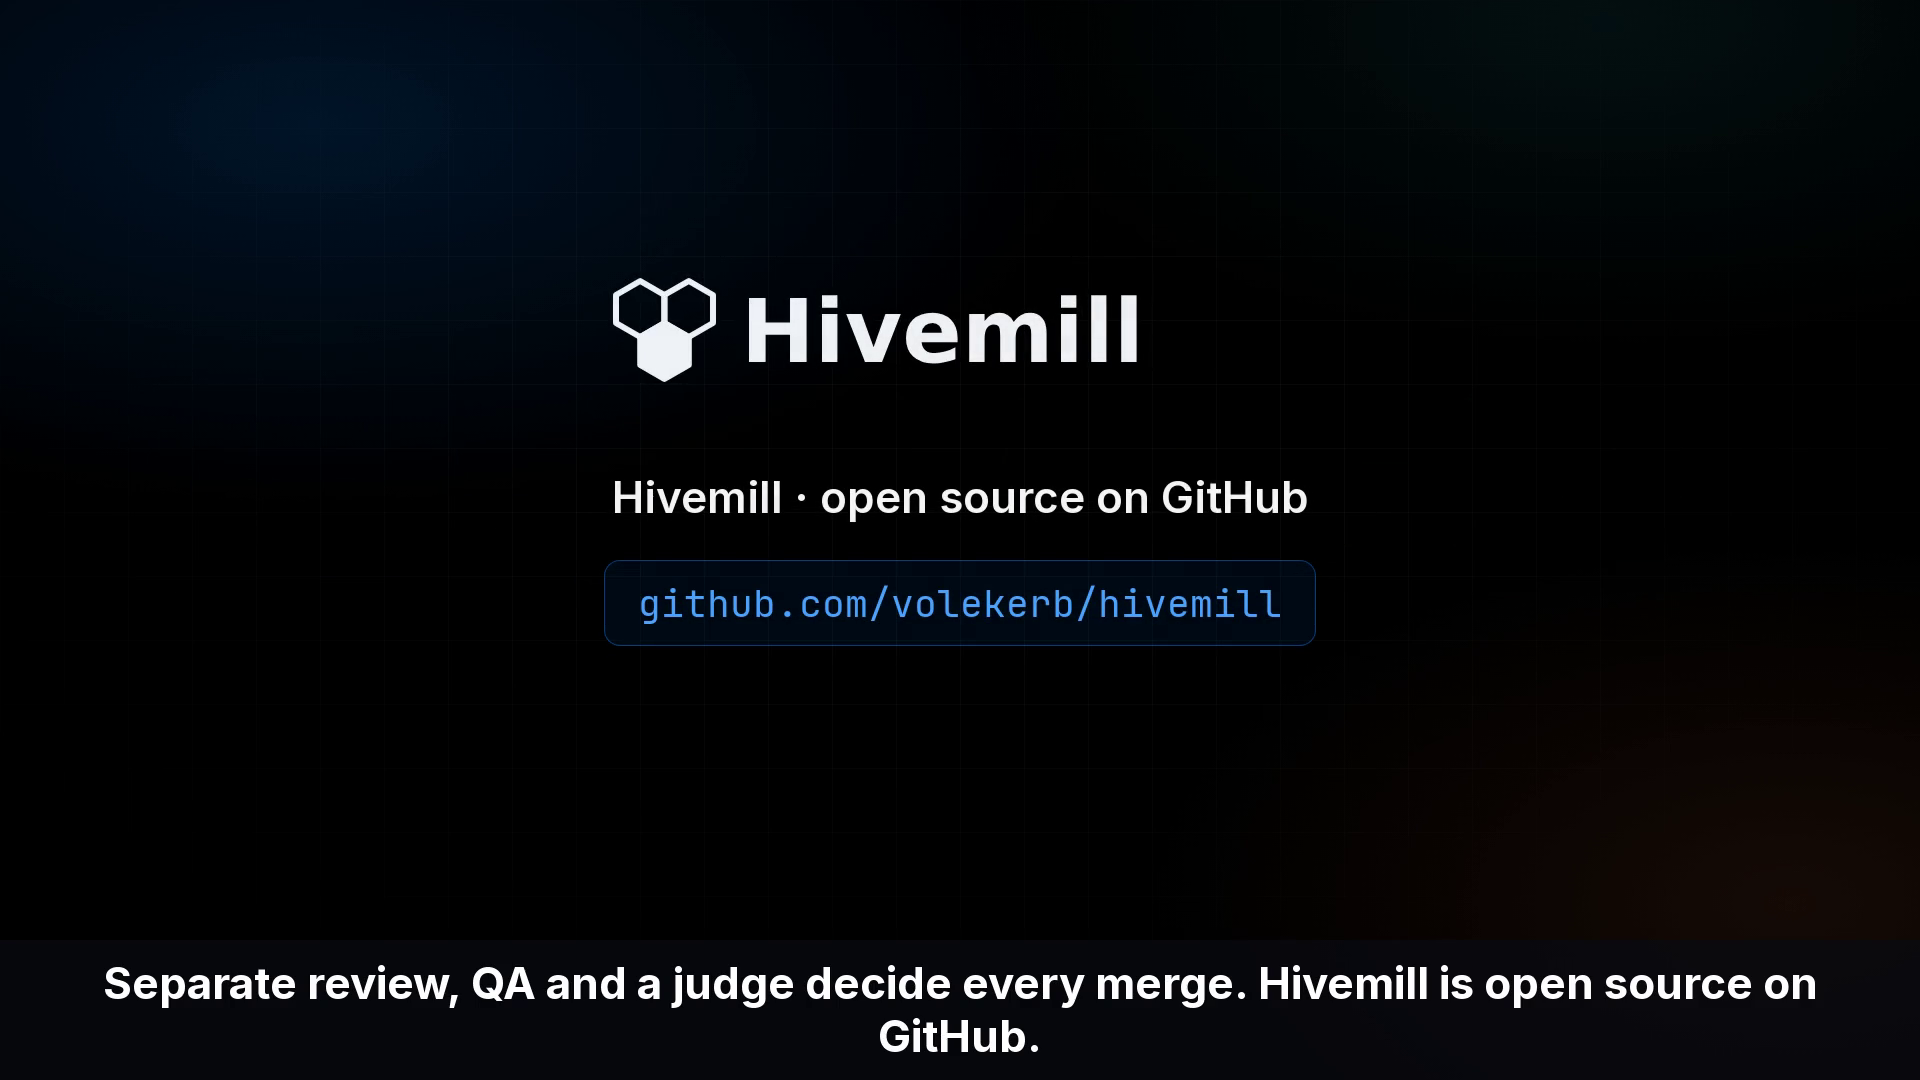
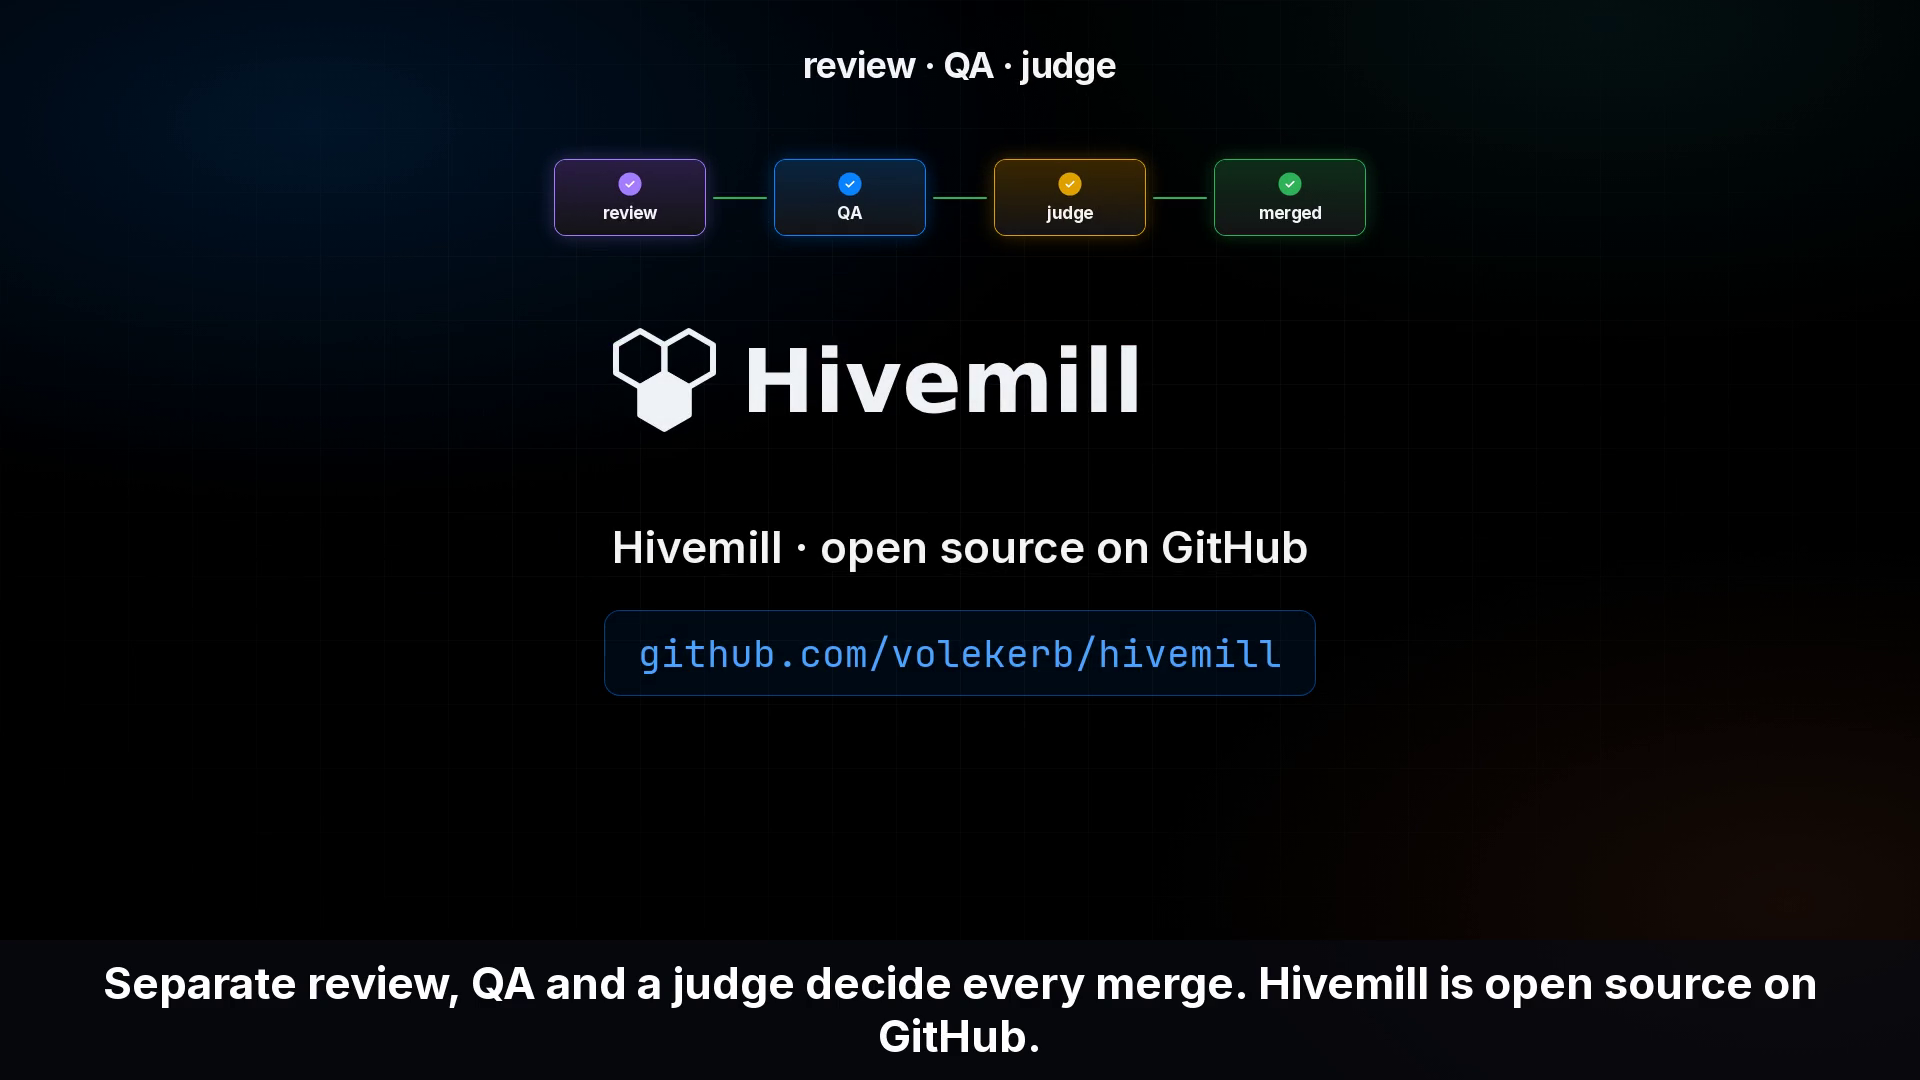
T-1502: film close card readable from 55 s; web-ui chips without overlap
Close: the merge gate lights in ~1 s, then shrinks above the wordmark and
stays; the end card is final from local 1.0 s (film 55 s) to 60 s.
Web-ui: highlight rings drawn inside the chip rectangles; the agents panel
shows two whole-row crops of one table in sequence (top with the Claude
chips, then Cursor HQ) instead of a cut fragment, no task ids on screen.
Stills re-extracted from the render (close 57 s, web-ui 16 s).

Changed region(s): [[0.2812, 0.1222, 0.7188, 0.3972], [0.3125, 0.4278, 0.6875, 0.6417], [0.4062, 0.0306, 0.5938, 0.0917]]

diff --git a/docs/film/scenes/web-ui.html b/docs/film/scenes/web-ui.html
@@ -10,7 +10,13 @@
   .shot { position: absolute; left: 0; top: 0; overflow: hidden; border-radius: 16px; background: rgb(0,0,0);
     box-shadow: 0 0 0 1px rgb(58,58,60), 0 40px 120px rgba(0,0,0,0.75); }
   .shot img { position: absolute; left: 0; top: 0; transform-origin: 0 0; }
-  .ring { position: absolute; }
+  /* Rings sit inside the chip rectangle (inset only), so they never reach neighbouring text. */
+  .ring { position: absolute; border-radius: 7px; }
+  .ring.seg { border-radius: 14px; }
+  .ring.claude { background: rgba(224,120,77,0.16);
+    box-shadow: inset 0 0 0 3px var(--org-claude-solid), inset 0 0 14px 2px rgba(224,120,77,0.55); }
+  .ring.cursor { background: rgba(43,179,192,0.16);
+    box-shadow: inset 0 0 0 3px var(--org-cursor-solid), inset 0 0 14px 2px rgba(43,179,192,0.55); }
 </style>
 </head><body>
 <div class="backdrop"></div>
@@ -28,8 +34,8 @@
   <div class="shot" id="w-agents"><img src="../../images/agents-dark.png" alt="Agents page"></div>
   <div class="shot" id="w-cursor"><img src="../../images/agents-dark.png" alt="Agents page, Cursor rows"></div>
   <div class="shot" id="w-throughput"><img src="../../images/throughput-dark.png" alt="Throughput page"></div>
-  <div class="ring claude" id="r-hdr-claude"></div>
-  <div class="ring cursor" id="r-hdr-cursor"></div>
+  <div class="ring claude seg" id="r-hdr-claude"></div>
+  <div class="ring cursor seg" id="r-hdr-cursor"></div>
   <div class="ring claude" id="r-hq-claude"></div>
   <div class="ring claude" id="r-boss-claude"></div>
   <div class="ring cursor" id="r-hq-cursor"></div>
@@ -42,20 +48,24 @@
   const { prog, fade, tr, $, lerp, clamp, easeInOut } = Film;
   // Each still shows only a crop of its README screenshot (pixel rectangles of the 2560 px wide source).
   // The crops stop above the parts of the pages that list goal or task ids.
+  // The two agents crops show whole rows of one table, one after the other (never side by side):
+  // the top of the page down to the row line under "director", then the Cursor HQ group from the row
+  // line above it to the row line under "cursor-director". Both keep the table's left and right edges.
   const SHOTS = {
     overview:   { crop: { x: 440, y: 0, w: 2120, h: 620 },  win: { x: 128, y: 236, w: 1664, h: 487 }, in: 0.0, out: 2.55 },
-    agents:     { crop: { x: 470, y: 0, w: 2090, h: 740 },  win: { x: 144, y: 156, w: 1632, h: 578 }, in: 2.45, out: 5.35 },
-    cursor:     { crop: { x: 470, y: 2400, w: 2090, h: 128 }, win: { x: 144, y: 752, w: 1632, h: 100 }, in: 2.85, out: 5.35 },
+    agents:     { crop: { x: 470, y: 0, w: 2090, h: 822 },  win: { x: 144, y: 156, w: 1632, h: 642 }, in: 2.45, out: 4.05 },
+    cursor:     { crop: { x: 470, y: 2379, w: 2090, h: 234 }, win: { x: 144, y: 385, w: 1632, h: 183 }, in: 4.4, out: 5.35 },
     throughput: { crop: { x: 500, y: 0, w: 2060, h: 620 },  win: { x: 136, y: 232, w: 1648, h: 496 }, in: 5.25, out: 99 },
   };
-  // Chip rectangles in source pixels, with the shot they sit in.
+  // Chip rectangles in source pixels (the ring is drawn inside them), with their highlight window [in, out].
+  // The runtime filter and the Claude chips light on the top crop, the Cursor chips on the Cursor crop.
   const CHIPS = {
-    'r-hdr-claude':  ['agents', 1154, 47, 136, 52],
-    'r-hdr-cursor':  ['agents', 1316, 47, 136, 52],
-    'r-hq-claude':   ['agents', 560, 624, 99, 35],
-    'r-boss-claude': ['agents', 687, 684, 100, 37],
-    'r-hq-cursor':   ['cursor', 560, 2415, 100, 35],
-    'r-boss-cursor': ['cursor', 855, 2477, 100, 36],
+    'r-hdr-claude':  ['agents', 1153, 41, 138, 66, 2.9, 4.05],
+    'r-hdr-cursor':  ['agents', 1314, 41, 140, 66, 3.25, 4.05],
+    'r-hq-claude':   ['agents', 561, 624, 98, 36, 3.1, 4.05],
+    'r-boss-claude': ['agents', 687, 685, 100, 36, 3.25, 4.05],
+    'r-hq-cursor':   ['cursor', 560, 2415, 100, 36, 4.7, 5.3],
+    'r-boss-cursor': ['cursor', 854, 2477, 101, 36, 4.8, 5.3],
   };
   const view = {};   // current left/top/scale per shot, for placing rings
 
@@ -68,11 +78,12 @@
     const vw = s.win.w / S, vh = s.win.h / S;
     const left = clamp(fx - vw / 2, s.crop.x, s.crop.x + s.crop.w - vw);
     const top = clamp(fy - vh / 2, s.crop.y, s.crop.y + s.crop.h - vh);
-    view[key] = { left, top, S };
+    const wy = s.win.y + 30 * (1 - prog(t, s.in, s.in + 0.5));
+    view[key] = { left, top, S, wy };
     el.style.width = s.win.w + 'px'; el.style.height = s.win.h + 'px';
     const a = fade(t, s.in, 0.35, s.out);
     el.style.opacity = a.toFixed(3);
-    el.style.transform = tr(s.win.x, s.win.y + 30 * (1 - prog(t, s.in, s.in + 0.5)));
+    el.style.transform = tr(s.win.x, wy);
     el.querySelector('img').style.transform =
       'translate(' + (-left * S).toFixed(2) + 'px,' + (-top * S).toFixed(2) + 'px) scale(' + S.toFixed(5) + ')';
     return a;
@@ -84,10 +95,9 @@
 
     // Overview: slow push-in across both org cards.
     show('overview', t, lerp(1, 1.07, prog(t, 0, 2.6, easeInOut)), 1520, 330);
-    // Agents: push in towards the runtime filter and the Claude chips; the Cursor rows slide in below.
-    const pa = prog(t, 2.6, 5.3, easeInOut);
-    show('agents', t, lerp(1, 1.03, pa), lerp(1515, 1250, pa), 400);
-    show('cursor', t, 1, 1515, 2464);
+    // Agents: the top of the table with the runtime filter and the Claude chips, then the Cursor HQ rows.
+    show('agents', t, 1, 1515, 411);
+    show('cursor', t, 1, 1515, 2496);
     // Throughput: push in on the tiles.
     show('throughput', t, lerp(1, 1.06, prog(t, 5.3, 8, easeInOut)), 1530, 330);
 
@@ -101,17 +111,15 @@
     });
 
     // Highlight rings on the Claude and Cursor chips, one after another.
-    Object.keys(CHIPS).forEach((id, i) => {
-      const [key, x, y, w, hh] = CHIPS[id];
+    Object.keys(CHIPS).forEach(id => {
+      const [key, x, y, w, hh, on, off] = CHIPS[id];
       const v = view[key], s = SHOTS[key];
       const r = $('#' + id);
-      const pad = 6;
-      r.style.left = Math.round(s.win.x + (x - v.left) * v.S - pad) + 'px';
-      r.style.top = Math.round(s.win.y + (y - v.top) * v.S - pad) + 'px';
-      r.style.width = Math.round(w * v.S + 2 * pad) + 'px';
-      r.style.height = Math.round(hh * v.S + 2 * pad) + 'px';
-      const st = 3.0 + Math.floor(i / 2) * 0.45;
-      r.style.opacity = fade(t, st, 0.3, 5.05).toFixed(3);
+      r.style.left = Math.round(s.win.x + (x - v.left) * v.S) + 'px';
+      r.style.top = Math.round(v.wy + (y - v.top) * v.S) + 'px';
+      r.style.width = Math.round(w * v.S) + 'px';
+      r.style.height = Math.round(hh * v.S) + 'px';
+      r.style.opacity = fade(t, on, 0.3, off).toFixed(3);
     });
   }
   Film.boot(seek);

diff --git a/docs/film/scenes/close.html b/docs/film/scenes/close.html
@@ -2,7 +2,7 @@
 <html lang="en"><head><meta charset="utf-8"><title>Hivemill</title>
 <link rel="stylesheet" href="film.css">
 <style>
-  #gate { position: absolute; left: 0; top: 0; width: 1920px; height: 940px; }
+  #gate { position: absolute; left: 0; top: 0; width: 1920px; height: 940px; transform-origin: 960px 0; }
   #gate .title { position: absolute; left: 0; right: 0; top: 190px; text-align: center; font-size: 72px; }
   .stp { position: absolute; top: 420px; width: 300px; height: 150px; border-radius: 22px; display: flex; flex-direction: column;
     align-items: center; justify-content: center; gap: 14px; font-size: 34px; font-weight: 700; }
@@ -11,9 +11,9 @@
   .link { position: absolute; top: 494px; height: 4px; border-radius: 2px; background: var(--track); overflow: hidden; }
   .link i { display: block; height: 100%; background: var(--success-solid); }
   #end { position: absolute; left: 0; top: 0; width: 1920px; height: 940px; }
-  #end img { position: absolute; left: 600px; top: 250px; width: 720px; height: 160px; }
-  #end .l1 { position: absolute; left: 0; right: 0; top: 470px; text-align: center; font-size: 44px; font-weight: 600; color: var(--ink-1); }
-  #end .l2 { position: absolute; left: 0; right: 0; top: 560px; text-align: center; }
+  #end img { position: absolute; left: 600px; top: 300px; width: 720px; height: 160px; }
+  #end .l1 { position: absolute; left: 0; right: 0; top: 520px; text-align: center; font-size: 44px; font-weight: 600; color: var(--ink-1); }
+  #end .l2 { position: absolute; left: 0; right: 0; top: 610px; text-align: center; }
   #end .l2 span { display: inline-block; font-family: var(--mono); font-size: 38px; color: var(--accent); padding: 18px 34px;
     border-radius: 16px; background: rgba(10,132,255,0.08); box-shadow: inset 0 0 0 1px rgba(10,132,255,0.45); }
 </style>
@@ -59,16 +59,17 @@
   });
 
   function seek(t) {
-    // Merge gate: each step lights in turn, the link to it fills first.
-    const g = prog(t, 0, 0.5);
-    const out = prog(t, 2.9, 3.4, easeInOut);
-    gate.style.opacity = (g * (1 - out)).toFixed(3);
-    gate.style.transform = tr(0, -40 * out);
+    // Merge gate: each step lights in turn, the link to it fills first. From local 0.45 s the gate
+    // shrinks to half size above the wordmark and stays there with the end card until the film ends.
+    const g = prog(t, 0, 0.3);
+    const sh = prog(t, 0.45, 0.95, easeInOut);
+    gate.style.opacity = g.toFixed(3);
+    gate.style.transform = tr(0, -50 * sh) + ' scale(' + lerp(1, 0.5, sh).toFixed(4) + ')';
     steps.forEach((s, i) => {
-      const at = 0.45 + i * 0.5;
-      const on = prog(t, at, at + 0.3, easeBack);
+      const at = 0.15 + i * 0.2;
+      const on = prog(t, at, at + 0.2, easeBack);
       const st = STEPS[i];
-      const a = prog(t, 0.1 + i * 0.08, 0.5 + i * 0.08);
+      const a = prog(t, i * 0.05, 0.3 + i * 0.05);
       s.d.style.opacity = a;
       s.d.style.transform = 'translateY(' + Math.round(20 * (1 - a)) + 'px)';
       s.d.style.background = on > 0.5 ? 'linear-gradient(180deg, rgb(' + st.bg + '), rgb(20,20,22))' : '';
@@ -78,11 +79,11 @@
       ck.style.background = on > 0.01 ? 'rgb(' + st.c + ')' : 'var(--track)';
       ck.style.transform = 'scale(' + (0.5 + 0.5 * Math.min(1.2, on)).toFixed(3) + ')';
       ck.querySelector('svg').style.opacity = Math.min(1, on);
-      if (s.link) s.link.querySelector('i').style.width = (100 * prog(t, at - 0.3, at)).toFixed(1) + '%';
+      if (s.link) s.link.querySelector('i').style.width = (100 * prog(t, at - 0.15, at)).toFixed(1) + '%';
     });
 
-    // End card.
-    const e1 = prog(t, 3.2, 4.0), e2 = prog(t, 3.6, 4.2), e3 = prog(t, 3.9, 4.5);
+    // End card: final from local 1.0 s (film 55 s) to the end; no fade-out.
+    const e1 = prog(t, 0.55, 0.9), e2 = prog(t, 0.65, 0.95), e3 = prog(t, 0.7, 1.0);
     const img = $('#end img');
     img.style.opacity = e1; img.style.transform = tr(0, 20 * (1 - e1));
     img.style.filter = 'blur(' + (8 * (1 - e1)).toFixed(2) + 'px)';
